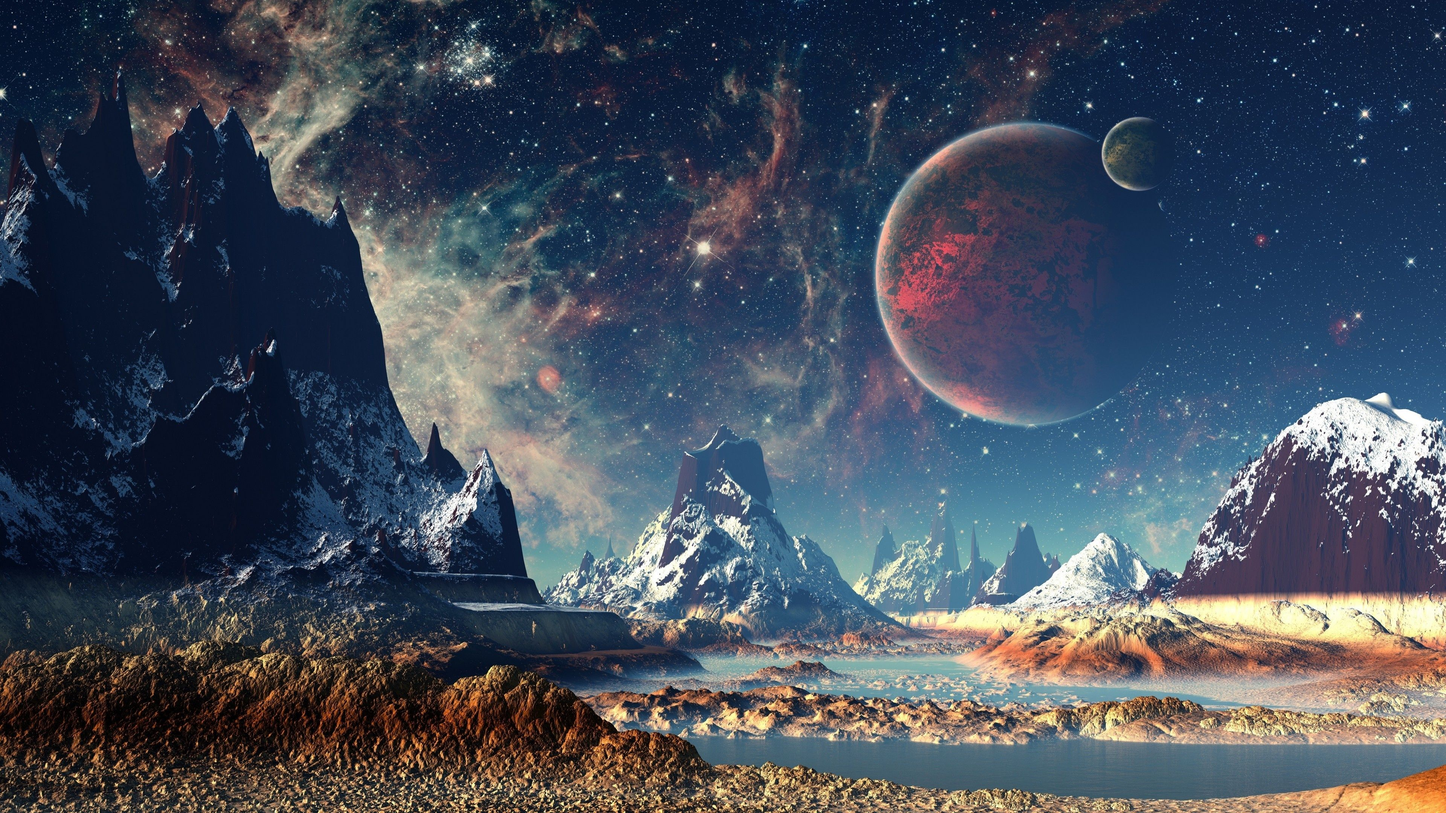
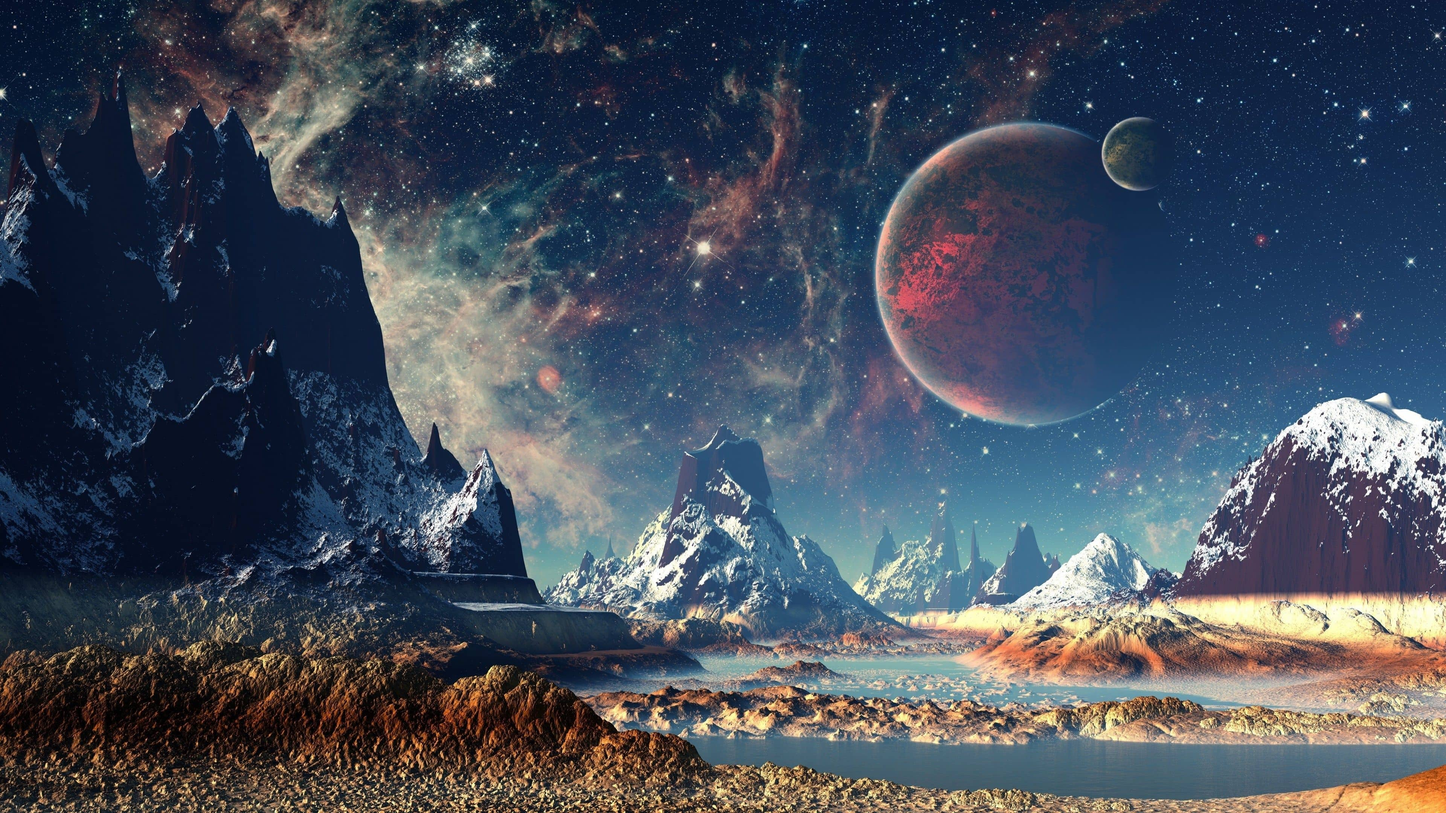
compressed background

diff --git a/src/App.css b/src/App.css
@@ -86,6 +86,11 @@ text-align: center;
   padding: .3rem;
     margin-top: 2rem;
     margin-bottom: 1.8rem;
+    background-color: transparent;
+    border-style: outset;
+    border-width: medium;
+    padding: 1rem 2rem;
+    border-color: rgb(255, 185, 0);
 }
 
 #start-over-btn {
